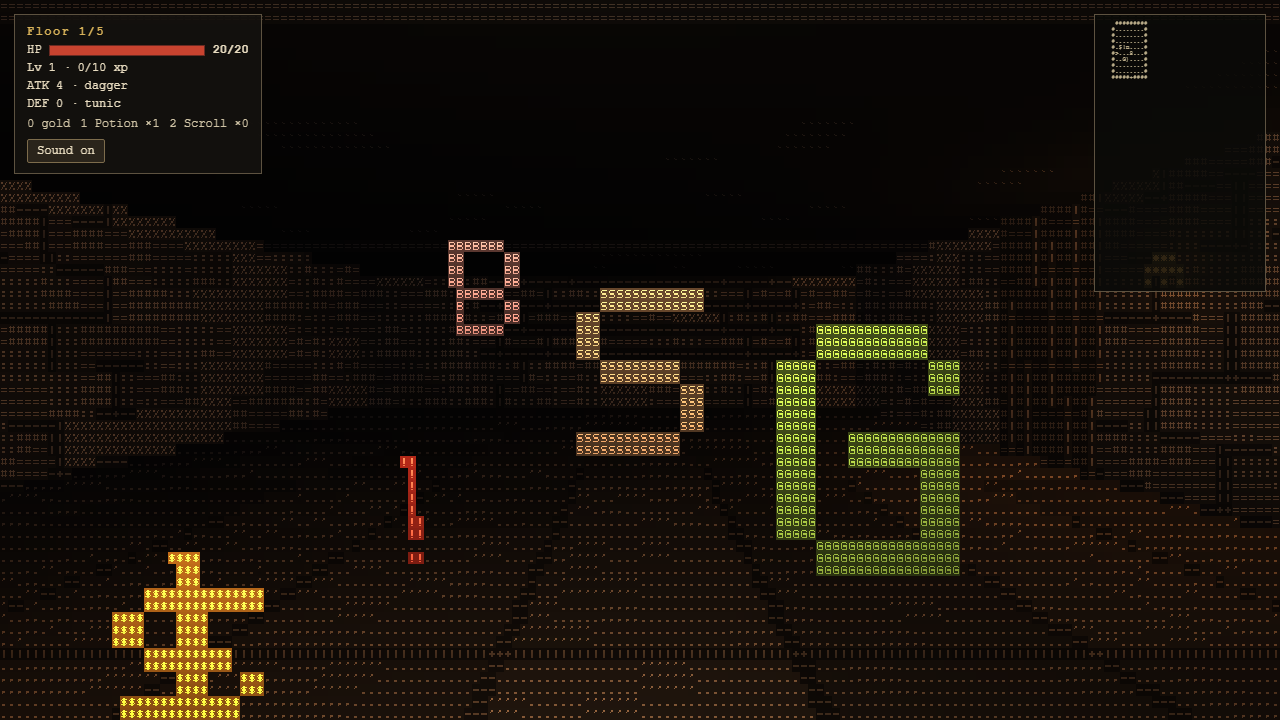
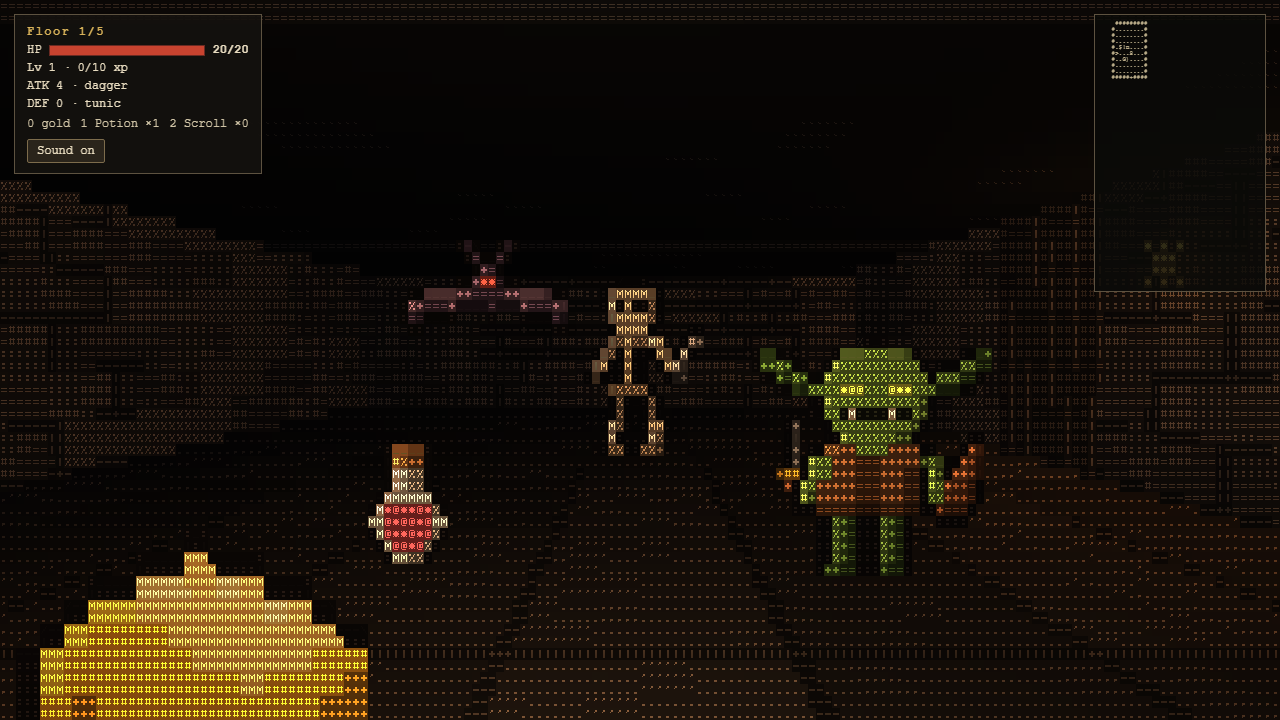
describe the new Delve art

diff --git a/README.md b/README.md
@@ -4,13 +4,13 @@
 
 Small browser games drawn entirely in coloured letters. Every game builds into **one self-contained offline HTML file**: no installs, no network requests, and no external image or font files. All games share a two-pass WebGL2 character-cell engine in `engine/`.
 
-![Delve: a skeleton, goblin and bat drawn as giant letters in a dungeon room](docs/delve-preview.png)
+![Delve: a skeleton, goblin and bat built from coloured letters in a dungeon room](docs/delve-preview.png)
 
 ## Games
 
 | Game | Genre & Overview |
 |---|---|
-| **Delve** | A first-person, turn-based roguelike across five seeded dungeon floors with permadeath, equipment upgrades, potions, mapping scrolls, and a lich on floor 5. Every monster and item is a giant 3D letter built out of small ones. |
+| **Delve** | A first-person, turn-based roguelike across five seeded dungeon floors with permadeath, equipment upgrades, potions, mapping scrolls, and a lich on floor 5. Every monster and item is a small drawn character, shaded in coloured letters. |
 | **Inkfire** | A fast-paced, real-time first-person arena shooter. Navigate a procedurally generated sector, collect Red and Blue keycards, wield four distinct weapons, detonate slime barrels, defeat the cybernetic Titan, and reach the exit pad. |
 | **Wordfall** | A two-minute lane game. Letters fall in nine lanes: catch the next letter of the word and dodge the rest. Finish words in a row to build a combo. |
 | [Next Stop](https://github.com/Taan1el/next-stop) | A rural steam railway in coloured letters ([play](https://taan1el.github.io/next-stop/)). Lives in its own repository. |

diff --git a/engine/README.md b/engine/README.md
@@ -69,6 +69,7 @@ Procedural pixel-art helper that packs small sprites into a single `RGBA8UI` tex
   - `.mirrorRows(from, to)`
   - `.finish({ outline = [.06, .05, .05], shade = true })`: Applies top-left highlight shading, bottom-right shadow shading, and a 1px dark outline around non-glowing pixels.
 - `GlyphArt.hex('#rrggbb')`: Converts a hex string into `[r, g, b]` floats in `0..1`.
+- `GlyphArt.SHADER`: GLSL source for `atlasGlyph(texel, px, py)`, which picks the shading letter for an atlas texel. Include it in a scene shader that samples an atlas.
 - `GlyphArt.glow(colour)`: Marks a colour as self-lit (stored with alpha `200` in the atlas).
 - `new GlyphArt.Atlas()`:
   - `.add(name, canvas)`: Registers a named sprite frame.

diff --git a/CHANGELOG.md b/CHANGELOG.md
@@ -2,6 +2,12 @@
 
 All notable changes to Glyph Arcade are documented in this file.
 
+## [Unreleased]
+
+### Changed
+- **Delve**: Monsters and items are now drawn characters with idle and attack poses (`games/delve/src/art.js`), shaded in coloured letters. Damage numbers, torches and the map still use single letters.
+- **Engine**: The atlas shading function moved to `GlyphArt.SHADER`, shared by Delve and Inkfire.
+
 ## [0.3.1] - 2026-11-02
 
 ### Fixed
